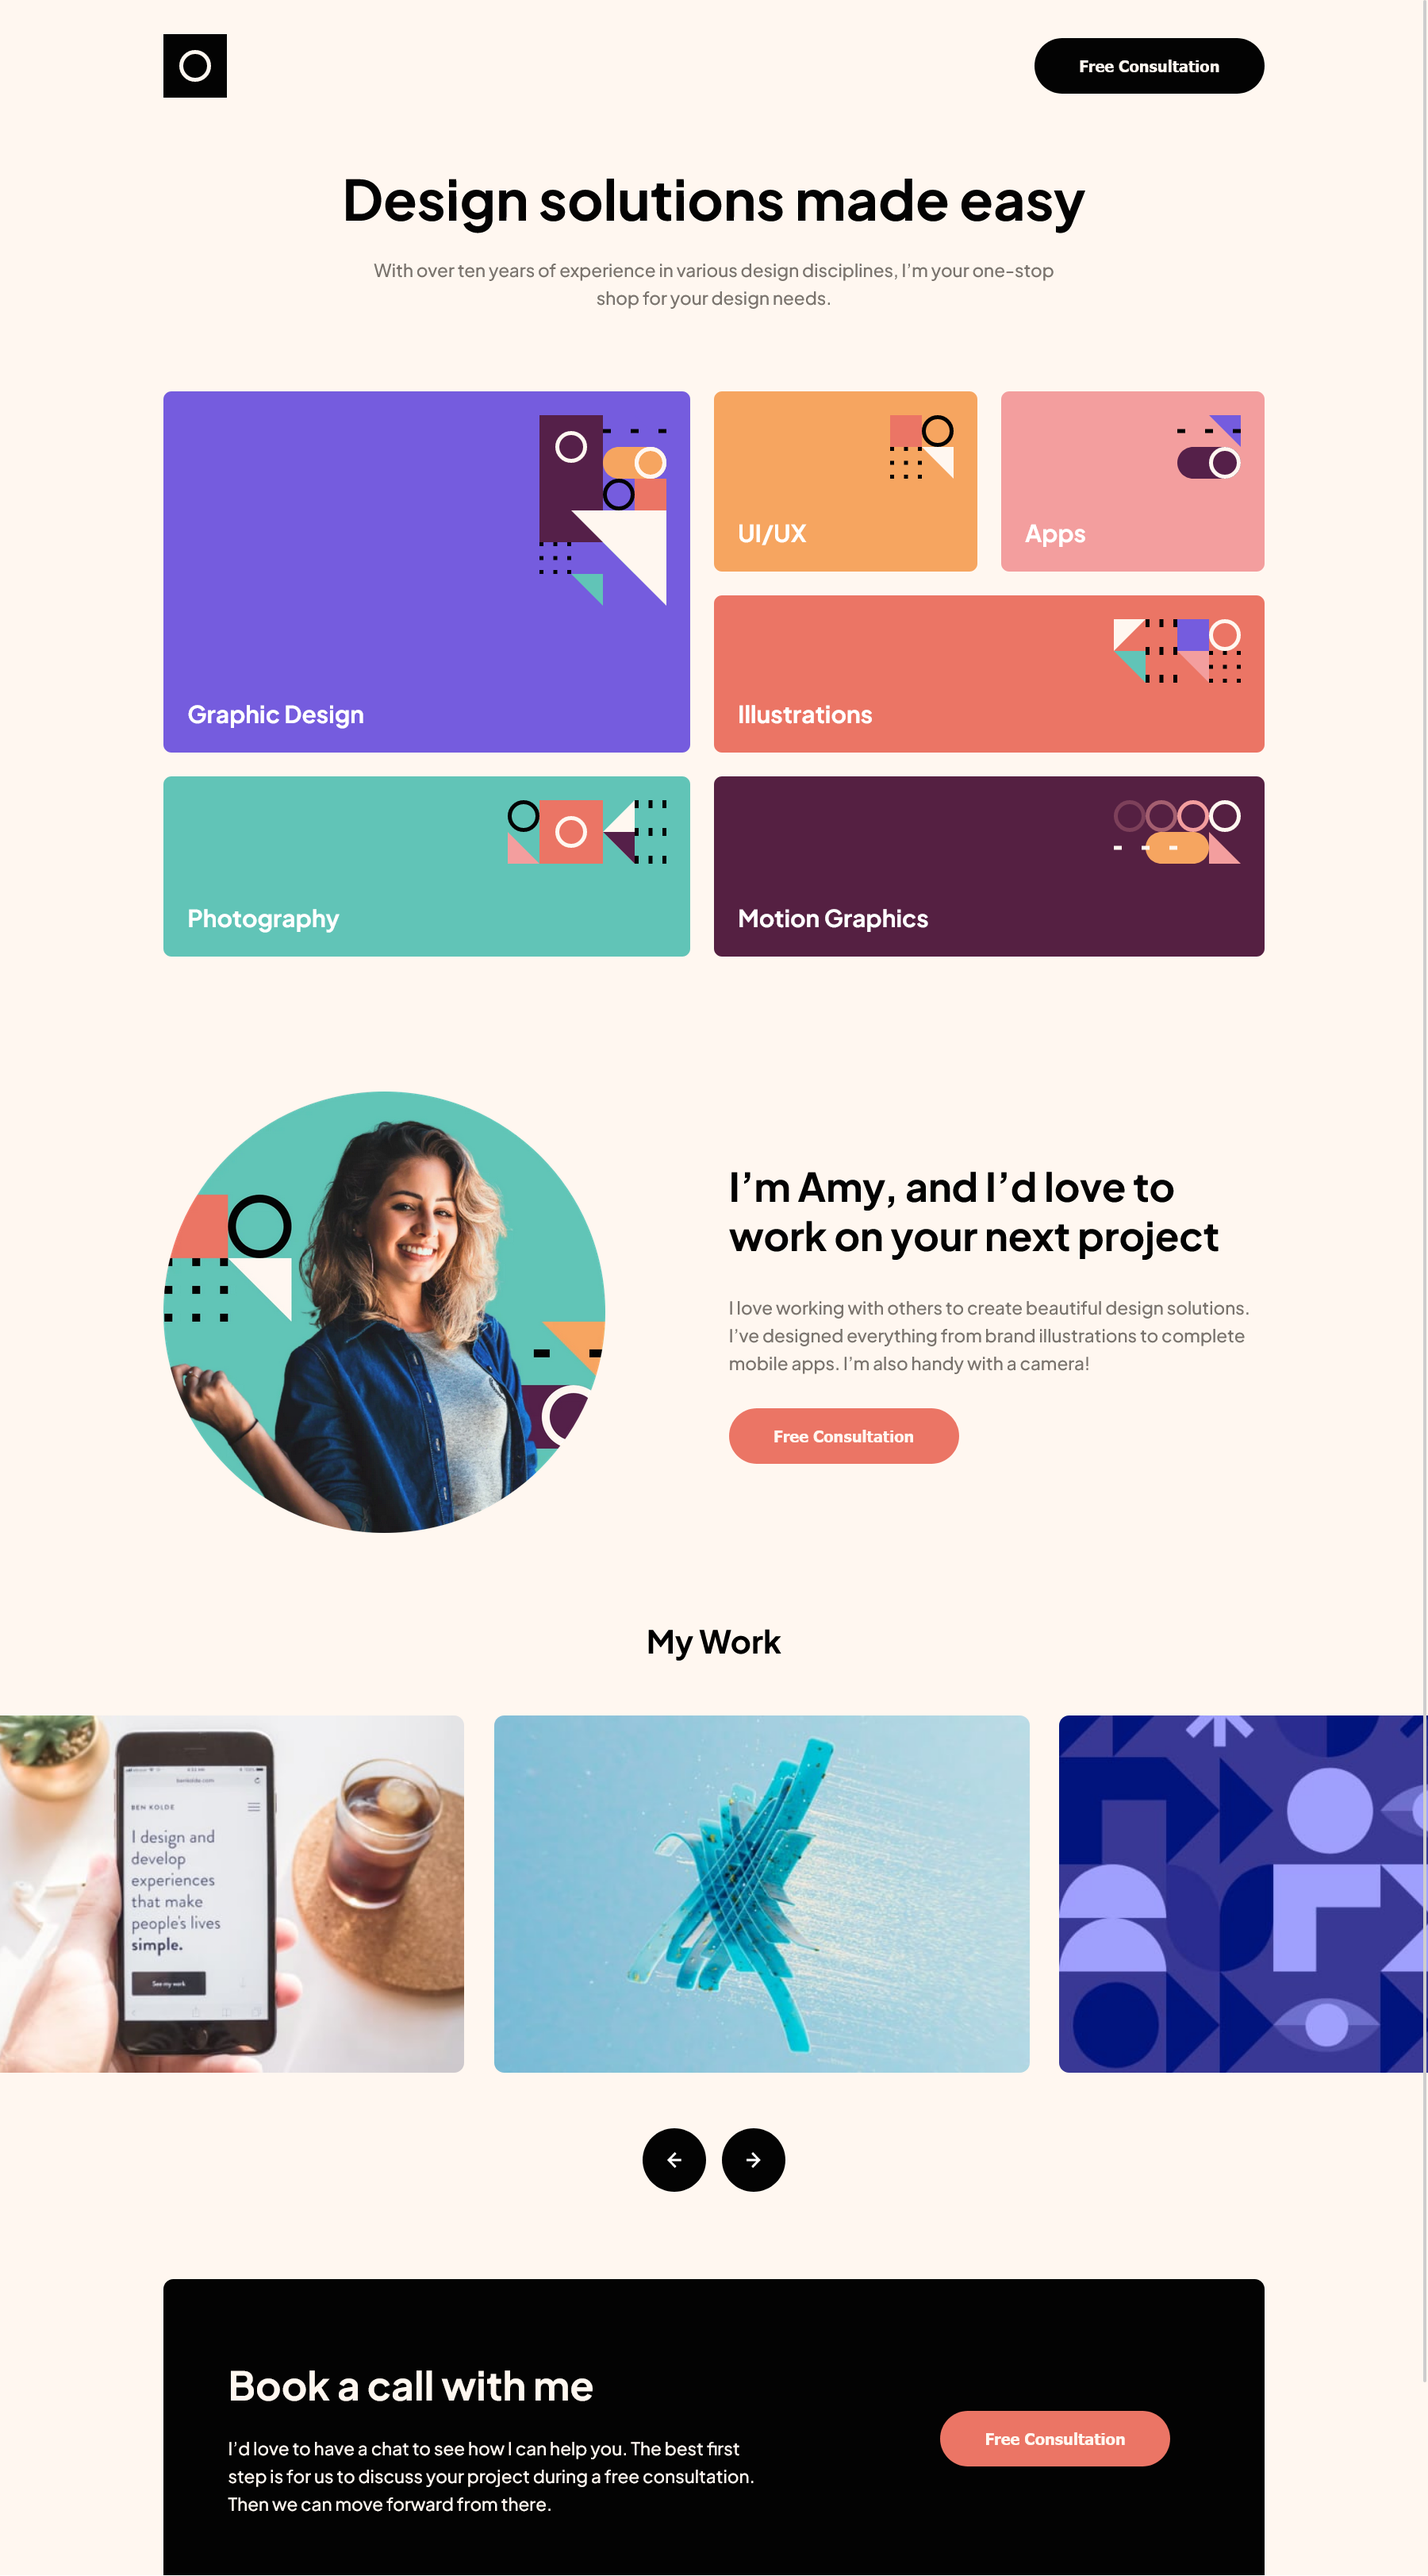
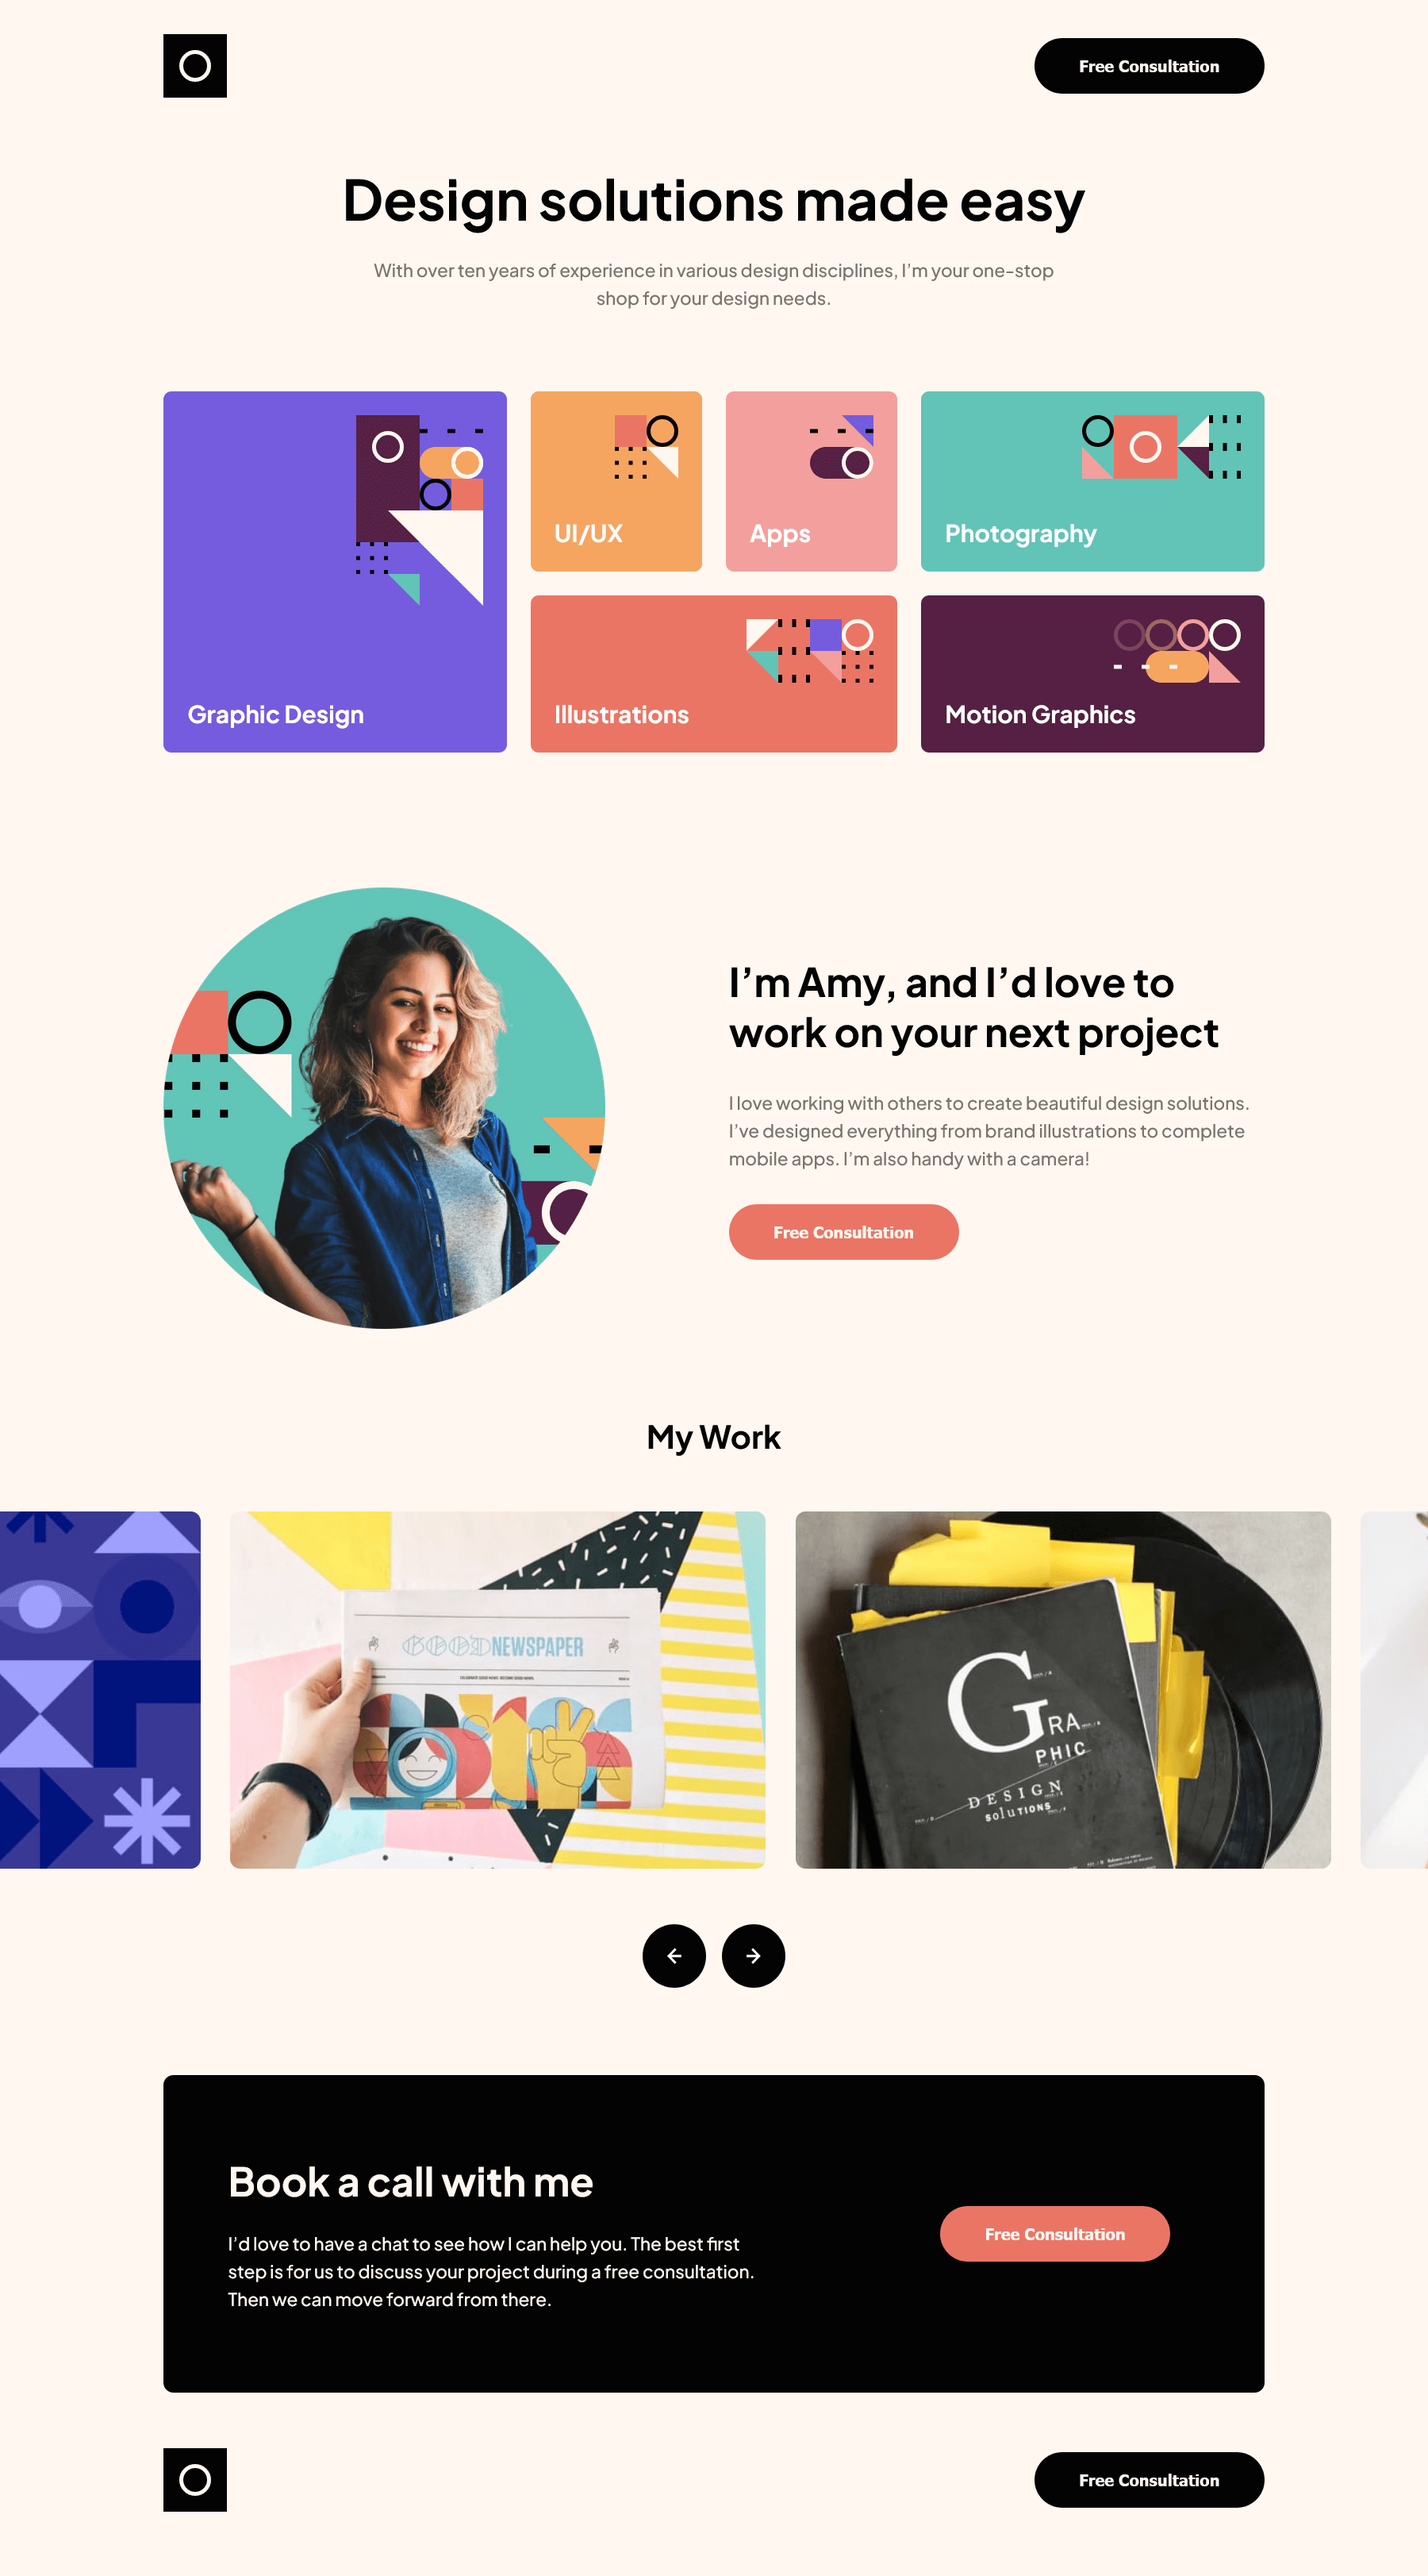
design mistake fixed

diff --git a/styles/style.css b/styles/style.css
@@ -134,6 +134,12 @@ body {
     margin-bottom: min(7.5555555556rem, 0.0238095238 * 100vw + 5.6507936508rem);
   }
 }
+@media (min-width: 1100px) {
+  .competencies {
+    grid-template: repeat(2, min-content)/2fr 1fr 1fr 2fr;
+    grid-template-areas: "graphic-design ui-ux apps photography" "graphic-design illustrations illustrations motion-graphics";
+  }
+}
 
 .competencies__motion-graphics, .competencies__photography, .competencies__illustrations, .competencies__apps, .competencies__ui-ux, .competencies__graphic-design {
   width: 100%;
@@ -194,6 +200,11 @@ body {
   background-color: #552042;
 }
 
+@media (min-width: 1100px) {
+  .competencies__motion-graphics {
+    height: 8.7777777778rem;
+  }
+}
 .about-me {
   text-align: center;
   margin-inline: max(0.8888888889rem, 0.0610687023 * 100vw + -0.3833757422rem);

diff --git a/styles/style.scss b/styles/style.scss
@@ -171,6 +171,12 @@ body {
       lerp($w-tablet, rem(120px), $w-desktop, rem(136px))
     );
   }
+  @media (min-width: 1100px) {
+    grid-template: repeat(2, min-content) / 2fr 1fr 1fr 2fr;
+    grid-template-areas:
+      "graphic-design ui-ux apps photography"
+      "graphic-design illustrations illustrations motion-graphics";
+  }
 }
 
 $grid-areas: (
@@ -208,6 +214,12 @@ $grid-areas: (
       image: url("../assets/pattern-#{$area}.svg");
       color: $color;
     }
+  }
+}
+
+@media (min-width: 1100px) {
+  .competencies__motion-graphics {
+    height: rem(158px);
   }
 }
 

diff --git a/index.html b/index.html
@@ -64,7 +64,7 @@
       </section>
       <section class="works">
         <h2 class="works__heading">My Work</h2>
-        <div class="carousel" id="carousel">
+        <div class="carousel" id="carousel" tabindex="0">
           <div class="carousel__content">
             <img src="./assets/image-slide-1.jpg" alt="" />
             <img src="./assets/image-slide-2.jpg" alt="" />
